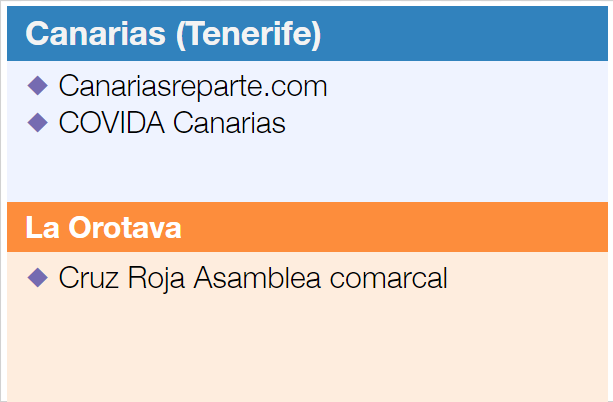
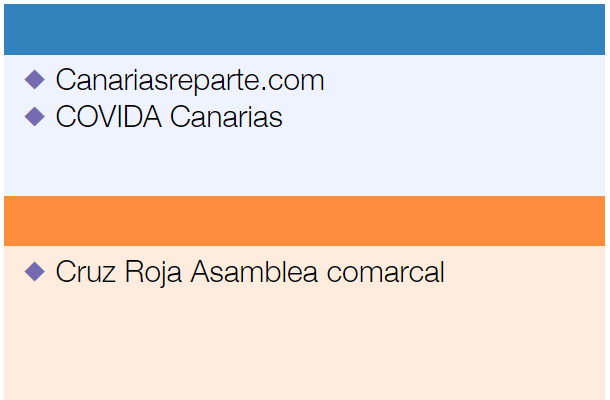
auto municipio name

Changed region(s): [[0.0, 0.0, 0.9967, 0.33], [0.0, 0.48, 0.9967, 1.0], [0.9967, 0.99, 1.0, 1.0]]

diff --git a/src/main/main.js b/src/main/main.js
@@ -398,7 +398,7 @@ function entraMunicipio(e) {
     //info.innerHTML = '<img src="./data/side_mun2.png"><br>Municipio: '+municipio+'<br>Provincia: '+provincia+'<br>Communidad Autonoma: '+communidad_autonoma+'<br>Pais: '+pais;
     var orientacion = matchMedia("(orientation: landscape)");
     if( orientacion.matches) {
-        info.innerHTML = '<img src="./data/hexinfo.png" width="318.5px"><img src="./data/zoneinfo.png" width="318.5px"><img src="./data/leyenda.png" width="318.5px">'
+        info.innerHTML = '<img src="./data/hexinfo.png" width="318.5px"><img src="./data/zoneinfo.png" width="318.5px"><img src="./data/leyenda.png" width="318.5px"><div class="text-provincia">Canarias(Tenerife)</div><div class="text-municipio">'+municipio+'</div>'
     } else {        
         info.innerHTML = '<img src="./data/hexinfo.png" width="490px"><img src="./data/zoneinfo.png" width="490px">'
     }

diff --git a/src/index.html b/src/index.html
@@ -185,6 +185,25 @@
             mix-blend-mode: multiply;
         }
 
+        .text-provincia {
+            position: absolute;
+            top: 213px;
+            left: 16px;
+            font-family: 'Helvetica', 'Arial', sans-serif;
+            color: #ffffff;
+            font-size: 18px;
+            font-weight: 700;
+        }
+
+        .text-municipio {
+            position: absolute;
+            top: 312px;
+            left: 16px;
+            font-family: 'Helvetica', 'Arial', sans-serif;
+            color: #ffffff;
+            font-size: 18px;
+            font-weight: 700;
+        }
     </style>
 </head>
 
